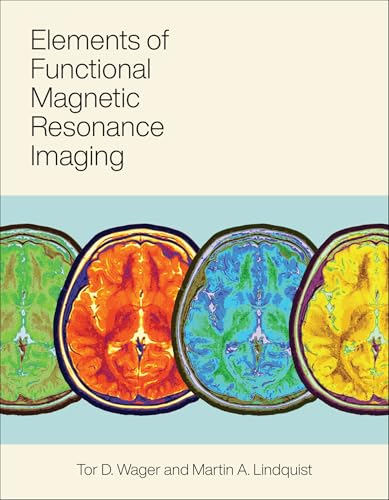
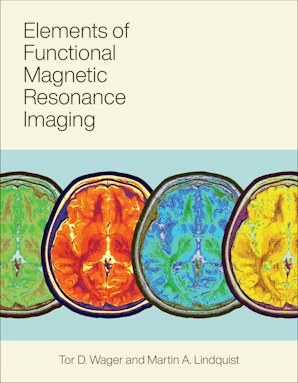
Official cover art: landing hero/footer link full title to MIT Press; cover thumbnail in book tile on all pages
Claude-Session: https://claude.ai/code/session_01CCA5kt5acoZdWzirVJAdXW

diff --git a/landing/index.html b/landing/index.html
@@ -36,7 +36,7 @@
         <div class="hero-pill"><span class="dot"></span> Interactive tutorials · 7 parts · 42 chapters</div>
         <h1>Elements of fMRI&nbsp;Analysis</h1>
         <p class="authors">Tor D. Wager &amp; Martin A. Lindquist</p>
-        <p class="lede">Hands-on companions to the book — concepts, runnable code in MATLAB and Python, thought questions, and self-quizzes for every chapter.</p>
+        <p class="lede">Hands-on companions to <a href="https://mitpress.mit.edu/9780262045049/elements-of-functional-magnetic-resonance-imaging/"><em>Elements of Functional Magnetic Resonance Imaging</em></a> — concepts, runnable code in MATLAB and Python, thought questions, and self-quizzes for every chapter.</p>
         <div class="hero-actions">
           <a class="btn btn-amber" href="book/">Start the tutorials <svg viewBox="0 0 24 24" fill="none" stroke="currentColor" stroke-width="2" stroke-linecap="round" stroke-linejoin="round"><path d="M5 12h14M13 6l6 6-6 6"/></svg></a>
           <a class="btn btn-ghost" href="book/contents">Table of contents</a>
@@ -143,7 +143,7 @@
   <div class="wrap">
     <div>
       <strong>Elements of fMRI Analysis — Interactive Tutorials</strong>
-      Hands-on companions to the book by Tor D. Wager and Martin A. Lindquist.<br>
+      Hands-on companions to <a href="https://mitpress.mit.edu/9780262045049/elements-of-functional-magnetic-resonance-imaging/"><em>Elements of Functional Magnetic Resonance Imaging</em></a> by Tor D. Wager and Martin A. Lindquist (MIT Press).<br>
       Content CC-BY-4.0 · Code MIT.
     </div>
     <div>

diff --git a/style/custom.css b/style/custom.css
@@ -145,6 +145,8 @@ html.dark button[aria-label="start compute environment"]::after {
     line-height: 1.45;
   }
   html.dark .book-tile { background: #1f2937; border-color: #374151; border-left-color: var(--efmri-steel); }
+  .book-tile img { float: left; width: 44px; height: auto; margin: 2px 10px 4px 0; border-radius: 3px; box-shadow: 0 4px 10px -4px rgba(26,35,50,.5); }
+  .book-tile p { margin: 0; overflow: hidden; }
   /* run-quick sits well above the book tile on code pages (book tile can be ~5 lines tall) */
   .run-quick { bottom: 170px; }
   .book-tile { font-size: 0.78rem; max-width: 250px; max-height: 138px; overflow: hidden; }

diff --git a/part2/ch06-inferences-about-mind-brain-and.md b/part2/ch06-inferences-about-mind-brain-and.md
@@ -249,7 +249,8 @@ Open the full Python lab notebook [→](./labs/ch06-lab-python.ipynb) or downloa
 
 :::{div}
 :class: book-tile
-📖 **The book:** [*Elements of Functional Magnetic Resonance Imaging*](https://mitpress.mit.edu/9780262045049/elements-of-functional-magnetic-resonance-imaging/) — Wager & Lindquist, MIT Press
+![Cover of Elements of Functional Magnetic Resonance Imaging](../cover-small.jpg)
+**The book:** [*Elements of Functional Magnetic Resonance Imaging*](https://mitpress.mit.edu/9780262045049/elements-of-functional-magnetic-resonance-imaging/) — Wager & Lindquist, MIT Press
 :::
 
 ---

diff --git a/part2/ch07-forward-and-reverse-inference.md b/part2/ch07-forward-and-reverse-inference.md
@@ -233,7 +233,8 @@ Open the full Python lab notebook [→](./labs/ch07-lab-python.ipynb) or downloa
 
 :::{div}
 :class: book-tile
-📖 **The book:** [*Elements of Functional Magnetic Resonance Imaging*](https://mitpress.mit.edu/9780262045049/elements-of-functional-magnetic-resonance-imaging/) — Wager & Lindquist, MIT Press
+![Cover of Elements of Functional Magnetic Resonance Imaging](../cover-small.jpg)
+**The book:** [*Elements of Functional Magnetic Resonance Imaging*](https://mitpress.mit.edu/9780262045049/elements-of-functional-magnetic-resonance-imaging/) — Wager & Lindquist, MIT Press
 :::
 
 ---

diff --git a/part2/ch08-valid-and-invalid-inferences.md b/part2/ch08-valid-and-invalid-inferences.md
@@ -250,7 +250,8 @@ Open the full Python lab notebook [→](./labs/ch08-lab-python.ipynb) or downloa
 
 :::{div}
 :class: book-tile
-📖 **The book:** [*Elements of Functional Magnetic Resonance Imaging*](https://mitpress.mit.edu/9780262045049/elements-of-functional-magnetic-resonance-imaging/) — Wager & Lindquist, MIT Press
+![Cover of Elements of Functional Magnetic Resonance Imaging](../cover-small.jpg)
+**The book:** [*Elements of Functional Magnetic Resonance Imaging*](https://mitpress.mit.edu/9780262045049/elements-of-functional-magnetic-resonance-imaging/) — Wager & Lindquist, MIT Press
 :::
 
 ---

diff --git a/part2/ch09-contrasting-statistical-mapping-with-traditional.md b/part2/ch09-contrasting-statistical-mapping-with-traditional.md
@@ -123,7 +123,8 @@ The chest X-ray triage system described above is one working instance of the fin
 
 :::{div}
 :class: book-tile
-📖 **The book:** [*Elements of Functional Magnetic Resonance Imaging*](https://mitpress.mit.edu/9780262045049/elements-of-functional-magnetic-resonance-imaging/) — Wager & Lindquist, MIT Press
+![Cover of Elements of Functional Magnetic Resonance Imaging](../cover-small.jpg)
+**The book:** [*Elements of Functional Magnetic Resonance Imaging*](https://mitpress.mit.edu/9780262045049/elements-of-functional-magnetic-resonance-imaging/) — Wager & Lindquist, MIT Press
 :::
 
 ---

diff --git a/part3/ch12-fmri-basics-and-terminology.md b/part3/ch12-fmri-basics-and-terminology.md
@@ -239,7 +239,8 @@ Open the full Python lab notebook [→](./labs/ch12-lab-python.ipynb) or downloa
 
 :::{div}
 :class: book-tile
-📖 **The book:** [*Elements of Functional Magnetic Resonance Imaging*](https://mitpress.mit.edu/9780262045049/elements-of-functional-magnetic-resonance-imaging/) — Wager & Lindquist, MIT Press
+![Cover of Elements of Functional Magnetic Resonance Imaging](../cover-small.jpg)
+**The book:** [*Elements of Functional Magnetic Resonance Imaging*](https://mitpress.mit.edu/9780262045049/elements-of-functional-magnetic-resonance-imaging/) — Wager & Lindquist, MIT Press
 :::
 
 ---

diff --git a/part3/ch13-fundamental-mri-physics.md b/part3/ch13-fundamental-mri-physics.md
@@ -283,7 +283,8 @@ Open the full Python lab notebook [→](./labs/ch13-lab-python.ipynb) or downloa
 
 :::{div}
 :class: book-tile
-📖 **The book:** [*Elements of Functional Magnetic Resonance Imaging*](https://mitpress.mit.edu/9780262045049/elements-of-functional-magnetic-resonance-imaging/) — Wager & Lindquist, MIT Press
+![Cover of Elements of Functional Magnetic Resonance Imaging](../cover-small.jpg)
+**The book:** [*Elements of Functional Magnetic Resonance Imaging*](https://mitpress.mit.edu/9780262045049/elements-of-functional-magnetic-resonance-imaging/) — Wager & Lindquist, MIT Press
 :::
 
 ---

diff --git a/part3/ch14-bold-physiology.md b/part3/ch14-bold-physiology.md
@@ -246,7 +246,8 @@ Open the full Python lab notebook [→](./labs/ch14-lab-python.ipynb) or downloa
 
 :::{div}
 :class: book-tile
-📖 **The book:** [*Elements of Functional Magnetic Resonance Imaging*](https://mitpress.mit.edu/9780262045049/elements-of-functional-magnetic-resonance-imaging/) — Wager & Lindquist, MIT Press
+![Cover of Elements of Functional Magnetic Resonance Imaging](../cover-small.jpg)
+**The book:** [*Elements of Functional Magnetic Resonance Imaging*](https://mitpress.mit.edu/9780262045049/elements-of-functional-magnetic-resonance-imaging/) — Wager & Lindquist, MIT Press
 :::
 
 ---

diff --git a/part3/ch15-spatial-and-temporal-resolution.md b/part3/ch15-spatial-and-temporal-resolution.md
@@ -252,7 +252,8 @@ Open the full Python lab notebook [→](./labs/ch15-lab-python.ipynb) or downloa
 
 :::{div}
 :class: book-tile
-📖 **The book:** [*Elements of Functional Magnetic Resonance Imaging*](https://mitpress.mit.edu/9780262045049/elements-of-functional-magnetic-resonance-imaging/) — Wager & Lindquist, MIT Press
+![Cover of Elements of Functional Magnetic Resonance Imaging](../cover-small.jpg)
+**The book:** [*Elements of Functional Magnetic Resonance Imaging*](https://mitpress.mit.edu/9780262045049/elements-of-functional-magnetic-resonance-imaging/) — Wager & Lindquist, MIT Press
 :::
 
 ---

diff --git a/part4/ch16-artifacts-and-noise-in-fmri.md b/part4/ch16-artifacts-and-noise-in-fmri.md
@@ -265,7 +265,8 @@ Open the full Python lab notebook [→](./labs/ch16-lab-python.ipynb) or downloa
 
 :::{div}
 :class: book-tile
-📖 **The book:** [*Elements of Functional Magnetic Resonance Imaging*](https://mitpress.mit.edu/9780262045049/elements-of-functional-magnetic-resonance-imaging/) — Wager & Lindquist, MIT Press
+![Cover of Elements of Functional Magnetic Resonance Imaging](../cover-small.jpg)
+**The book:** [*Elements of Functional Magnetic Resonance Imaging*](https://mitpress.mit.edu/9780262045049/elements-of-functional-magnetic-resonance-imaging/) — Wager & Lindquist, MIT Press
 :::
 
 ---
